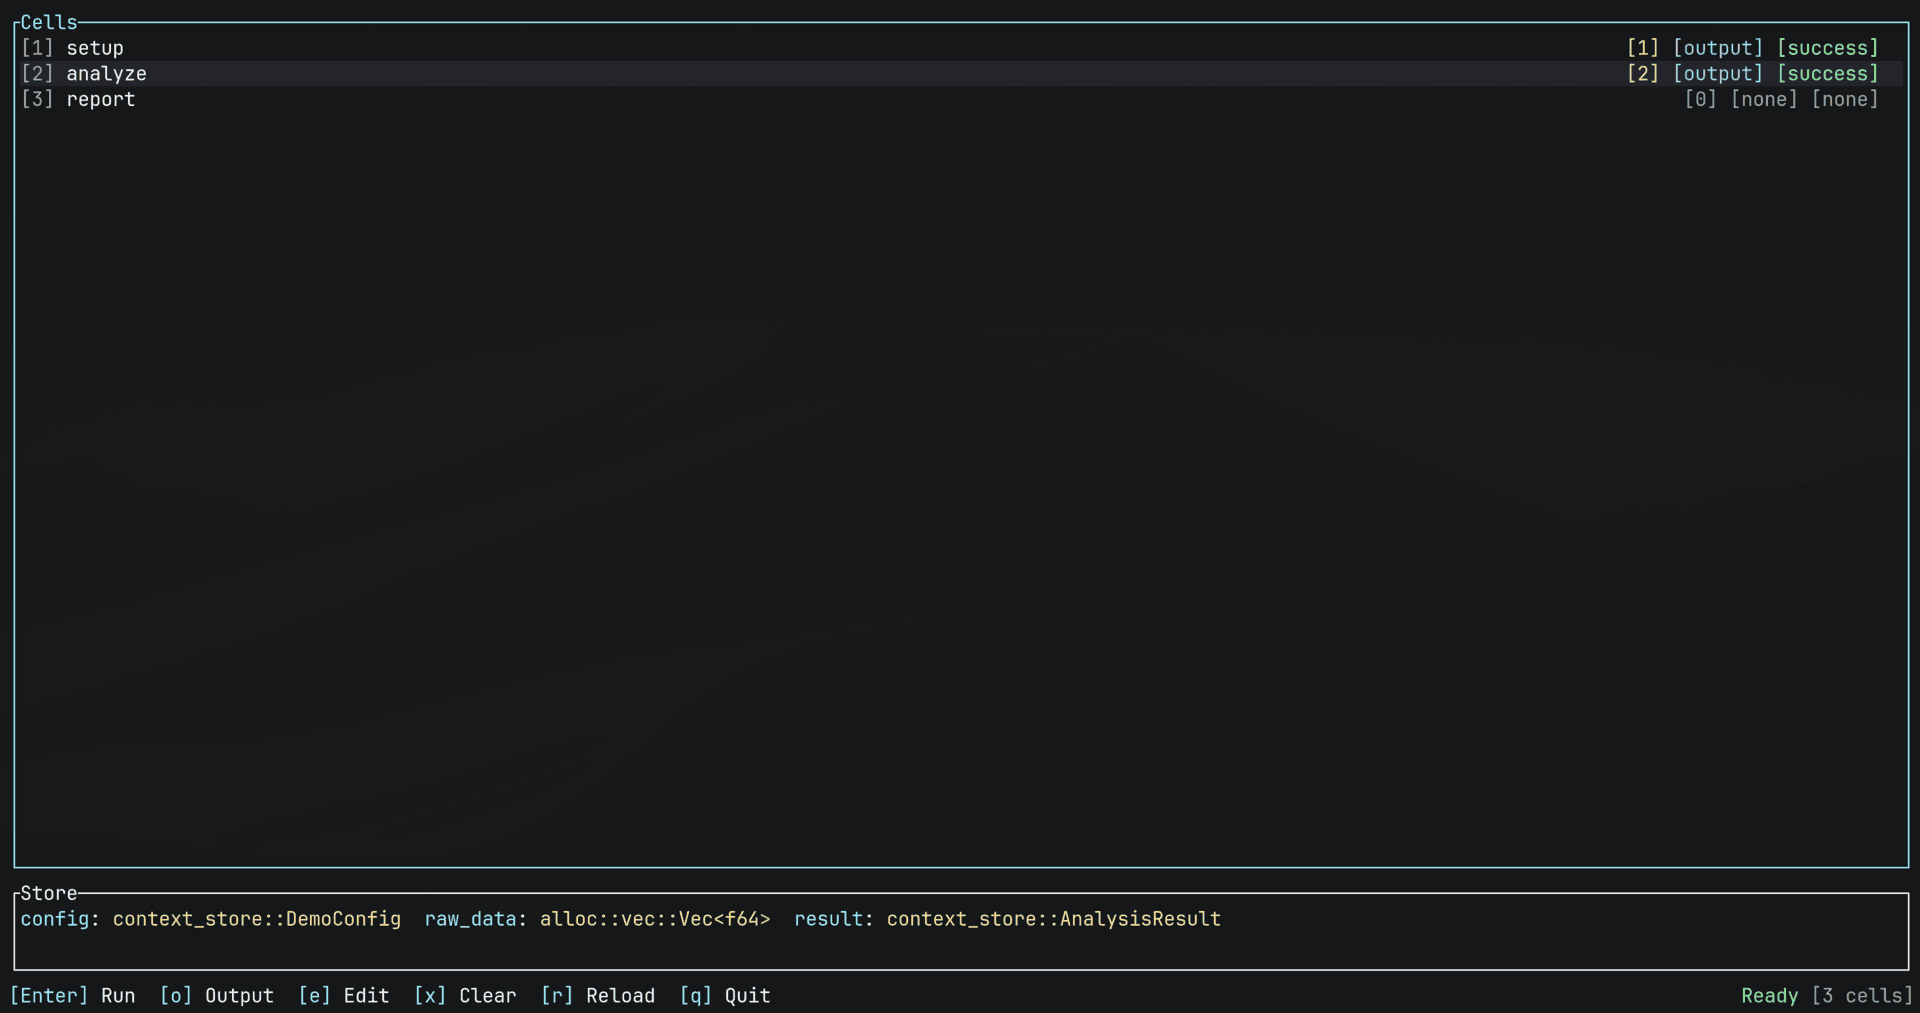
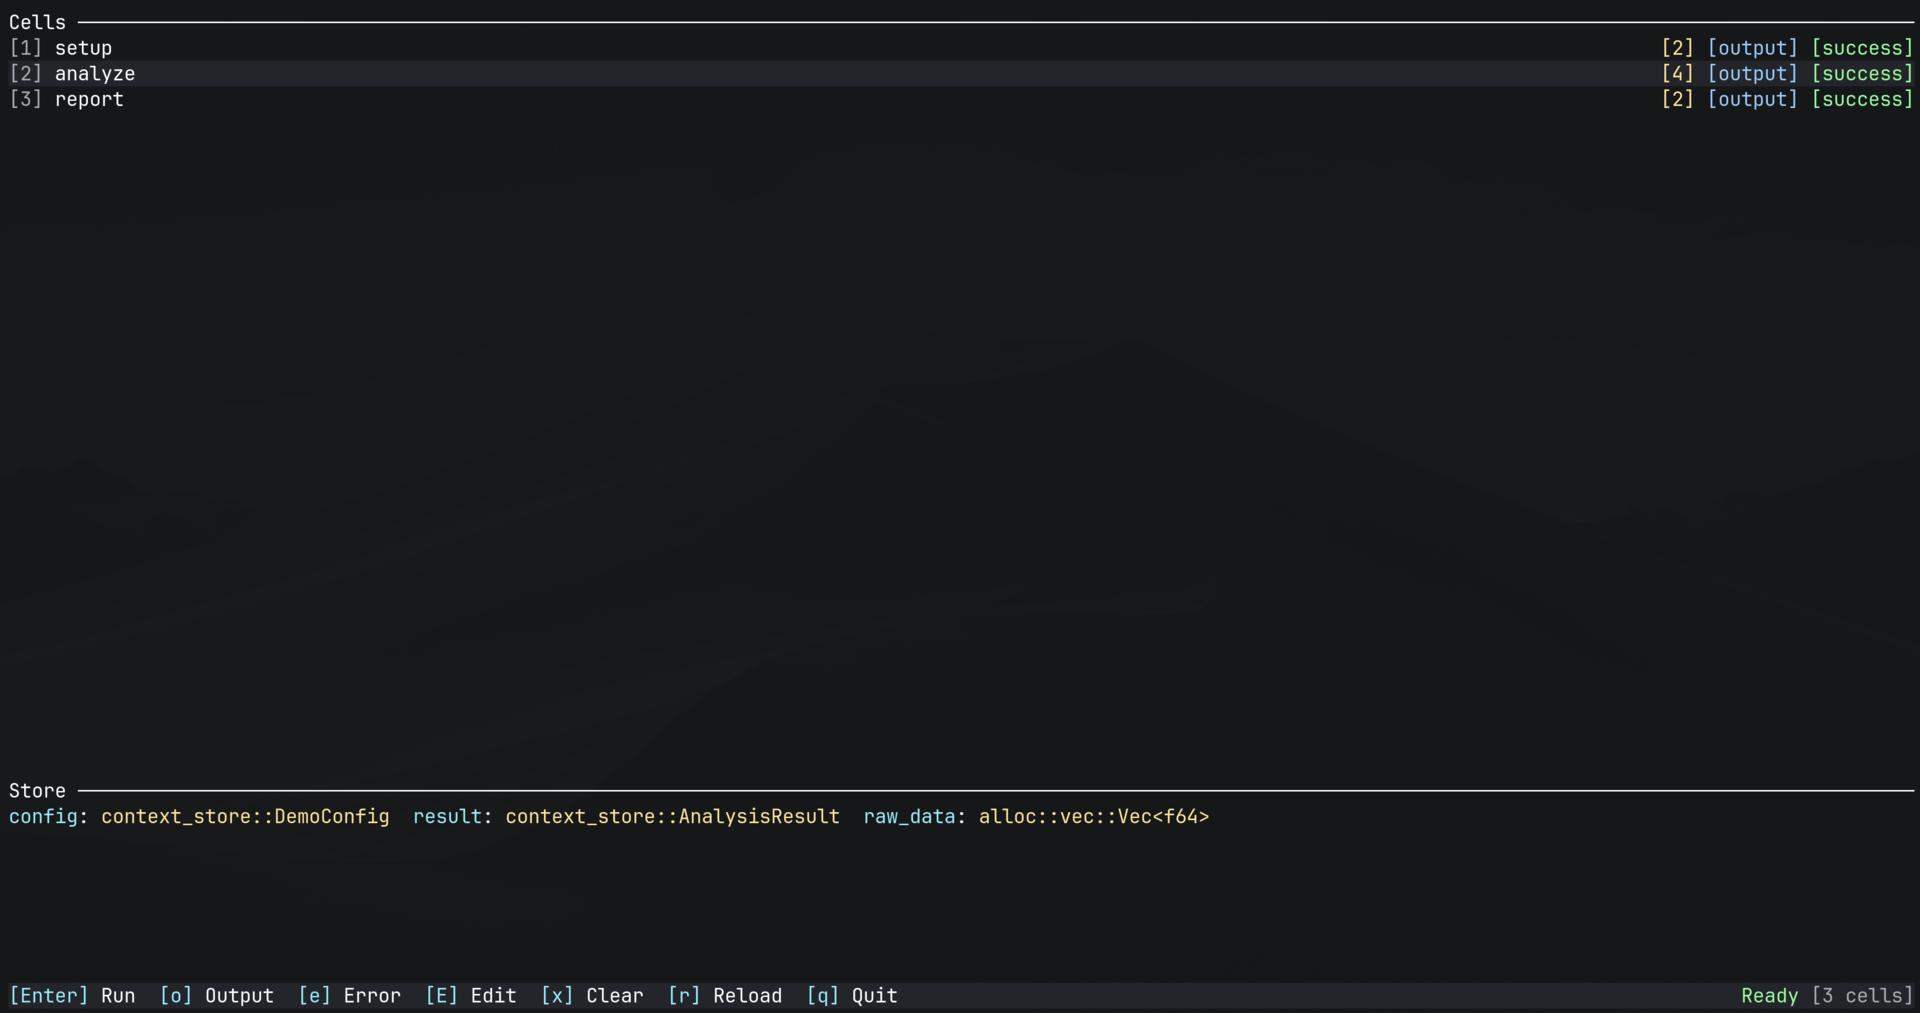
TUI style changes

diff --git a/cargo-cellbook/src/tui/ui.rs b/cargo-cellbook/src/tui/ui.rs
@@ -14,7 +14,7 @@ pub fn render(frame: &mut Frame, app: &mut App) {
         .direction(Direction::Vertical)
         .constraints([
             Constraint::Min(5),    // Cells
-            Constraint::Length(4), // Context
+            Constraint::Length(8), // Context
             Constraint::Length(1), // Status bar
         ])
         .split(frame.area());
@@ -25,8 +25,7 @@ pub fn render(frame: &mut Frame, app: &mut App) {
 }
 
 fn render_cells(frame: &mut Frame, app: &mut App, area: Rect) {
-    // Calculate available width for right-aligned status.
-    let inner_width = area.width.saturating_sub(4) as usize; // Account for borders and padding.
+    let inner_width = area.width as usize;
 
     let items: Vec<ListItem> = app
         .cells
@@ -101,9 +100,9 @@ fn render_cells(frame: &mut Frame, app: &mut App, area: Rect) {
     let list = List::new(items)
         .block(
             Block::default()
-                .borders(Borders::ALL)
-                .border_style(Style::default().fg(Color::Cyan))
-                .title("Cells"),
+                .borders(Borders::TOP)
+                .border_style(Style::default().fg(Color::White))
+                .title("Cells "),
         )
         .highlight_style(
             Style::default()
@@ -134,8 +133,9 @@ fn render_context(frame: &mut Frame, app: &App, area: Rect) {
     let context = Paragraph::new(Line::from(items))
         .block(
             Block::default()
-                .borders(Borders::ALL)
-                .title("Store"),
+                .borders(Borders::TOP)
+                .border_style(Style::default().fg(Color::White))
+                .title("Store "),
         )
         .wrap(Wrap { trim: true });
 
@@ -149,6 +149,8 @@ fn render_status_bar(frame: &mut Frame, app: &App, area: Rect) {
         Span::styled("[o]", Style::default().fg(Color::Cyan)),
         Span::raw(" Output  "),
         Span::styled("[e]", Style::default().fg(Color::Cyan)),
+        Span::raw(" Error  "),
+        Span::styled("[E]", Style::default().fg(Color::Cyan)),
         Span::raw(" Edit  "),
         Span::styled("[x]", Style::default().fg(Color::Cyan)),
         Span::raw(" Clear  "),
@@ -178,12 +180,15 @@ fn render_status_bar(frame: &mut Frame, app: &App, area: Rect) {
         Style::default().fg(Color::DarkGray),
     );
 
+    let bar_style = Style::default().bg(Color::Rgb(35, 37, 42));
+
     // Left side: help keys.
-    let left = Paragraph::new(Line::from(help));
+    let left = Paragraph::new(Line::from(help)).style(bar_style);
 
     // Right side: status and cell count.
     let right = Paragraph::new(Line::from(vec![status, cell_count]))
-        .alignment(Alignment::Right);
+        .alignment(Alignment::Right)
+        .style(bar_style);
 
     // Prioritize commands over status when space is limited.
     let chunks = Layout::default()

diff --git a/cargo-cellbook/src/tui/config.rs b/cargo-cellbook/src/tui/config.rs
@@ -19,6 +19,7 @@ pub struct Keybindings {
     pub quit: KeyBinding,
     pub clear_context: KeyBinding,
     pub view_output: KeyBinding,
+    pub view_error: KeyBinding,
     pub reload: KeyBinding,
     pub edit: KeyBinding,
     pub run_cell: KeyBinding,
@@ -32,8 +33,9 @@ impl Default for Keybindings {
             quit: KeyBinding::Single("q".into()),
             clear_context: KeyBinding::Single("x".into()),
             view_output: KeyBinding::Single("o".into()),
+            view_error: KeyBinding::Single("e".into()),
             reload: KeyBinding::Single("r".into()),
-            edit: KeyBinding::Single("e".into()),
+            edit: KeyBinding::Single("E".into()),
             run_cell: KeyBinding::Single("Enter".into()),
             navigate_down: KeyBinding::Multiple(vec!["Down".into(), "j".into()]),
             navigate_up: KeyBinding::Multiple(vec!["Up".into(), "k".into()]),

diff --git a/cargo-cellbook/src/tui/mod.rs b/cargo-cellbook/src/tui/mod.rs
@@ -63,6 +63,16 @@ pub async fn run(lib: &mut LoadedLibrary, event_rx: mpsc::Receiver<TuiEvent>) ->
                                 events.resume();
                             }
                         }
+                        Action::ViewError => {
+                            if let Some(idx) = app.selected_cell_index()
+                                && let Some(error) = app.get_error(idx)
+                            {
+                                events.stop();
+                                view_output_in_pager(error);
+                                terminal = ratatui::init();
+                                events.resume();
+                            }
+                        }
                         Action::ClearContext => {
                             store::clear();
                             app.refresh_context(store::list());

diff --git a/cargo-cellbook/src/tui/events.rs b/cargo-cellbook/src/tui/events.rs
@@ -118,6 +118,7 @@ pub enum Action {
     Quit,
     RunCell(usize),
     ViewOutput,
+    ViewError,
     ClearContext,
     Reload,
     Edit,
@@ -139,6 +140,9 @@ pub fn handle_key(key: KeyEvent, app: &mut App, config: &TuiConfig) -> Action {
     }
     if kb.view_output.matches(key.code) {
         return Action::ViewOutput;
+    }
+    if kb.view_error.matches(key.code) {
+        return Action::ViewError;
     }
     if kb.reload.matches(key.code) {
         return Action::Reload;

diff --git a/cargo-cellbook/src/tui/state.rs b/cargo-cellbook/src/tui/state.rs
@@ -145,6 +145,13 @@ impl App {
         self.cell_outputs.contains_key(cell_name)
     }
 
+    pub fn get_error(&self, idx: usize) -> Option<&str> {
+        match self.cell_statuses.get(idx) {
+            Some(CellStatus::Error(msg)) => Some(msg.as_str()),
+            _ => None,
+        }
+    }
+
     pub fn refresh_cells(&mut self, cells: Vec<String>) {
         let cell_count = cells.len();
         self.cells = cells;

diff --git a/README.md b/README.md
@@ -126,8 +126,9 @@ This file is created with default values on first run:
 quit = "q"
 clear_context = "x"
 view_output = "o"
+view_error = "e"
 reload = "r"
-edit = "e"
+edit = "E"
 run_cell = "Enter"
 navigate_down = ["Down", "j"]
 navigate_up = ["Up", "k"]
